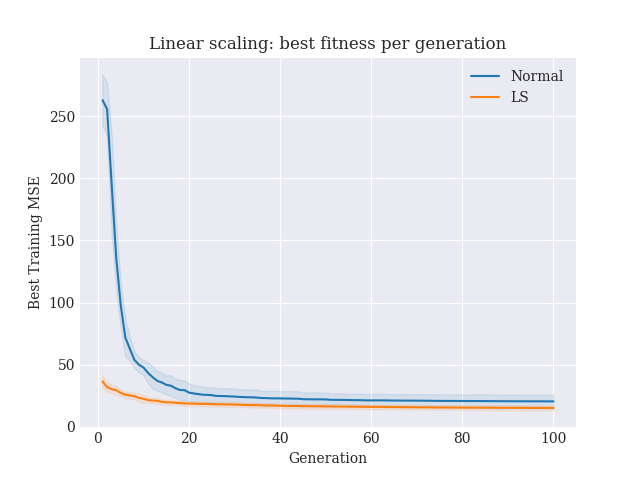
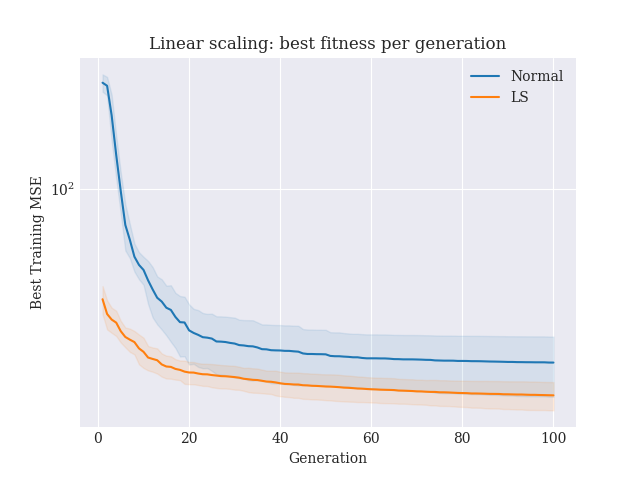
also log scale the fitness for ls plots

diff --git a/plots/plot_ls.py b/plots/plot_ls.py
@@ -30,6 +30,7 @@ plt.xlabel("Generation")
 plt.ylabel("Best Training MSE")
 # plt.xticks(x)
 plt.title("Linear scaling: best fitness per generation")
+plt.yscale("log")
 
 color = 0
 for w in data.keys():
@@ -66,7 +67,7 @@ for w in data.keys():
     color += 1
 
 plt.legend()
-plt.savefig("../images/linear_scaling__size")
+plt.savefig("../images/linear_scaling_size")
 plt.show()
 
 
